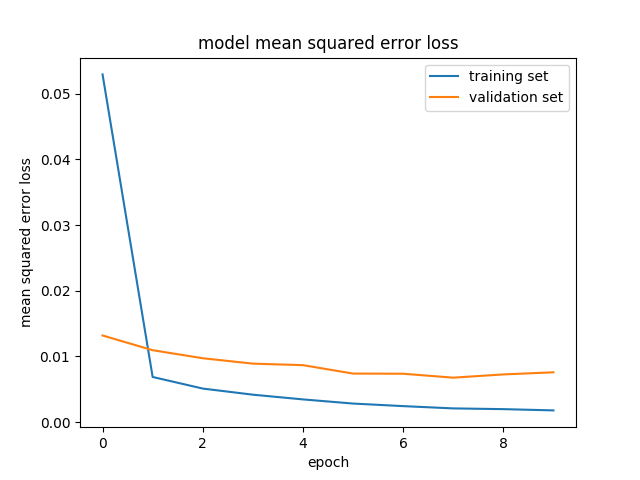
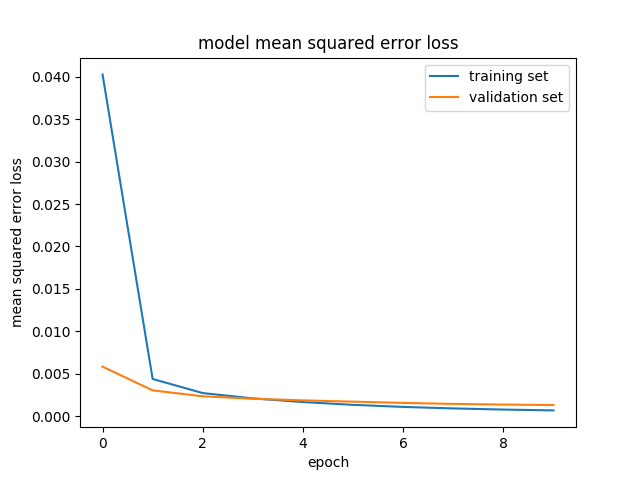
Bug fix for fit_generator

diff --git a/model.py b/model.py
@@ -3,13 +3,17 @@ import cv2
 import numpy as np
 import gc
 from sklearn.utils import shuffle
-from sklear.model_selection import train_test_split
+from sklearn.model_selection import train_test_split
+
+BATCH_SIZE = 32
 
 samples = []
 with open('./data/driving_log.csv') as csvfile:
   reader = csv.reader(csvfile)
   for line in reader:
-    line.append(1) #flag for augmentation
+    line.append(1)
+    samples.append(line)
+    line[-1] = -1
     samples.append(line)
 
 def generator(samples, batch_size=32):
@@ -23,9 +27,12 @@ def generator(samples, batch_size=32):
       angles = []
 
       for batch_sample in batch_samples:
-        name = './data/IMG/' + batch_sample[0].split('/')[-1]
+        name = './data/IMG/'+batch_sample[0].split('/')[-1]
         center_image = cv2.imread(name)
         center_angle = float(batch_sample[3])
+        if (batch_sample[-1] == -1):
+          center_image = np.fliplr(center_image)
+          center_angle = - center_angle
         images.append(center_image)
         angles.append(center_angle)
 
@@ -34,28 +41,20 @@ def generator(samples, batch_size=32):
       yield shuffle(X_train, y_train)
 
 train_samples, validation_samples = train_test_split(samples, test_size=0.2)
-train_generator = generator(train_samples)
-validation_generator = generator(validation_samples)
-
-#augmented_images = []
-#augmented_measurements = []
-#for image, measurement in zip(images, measurements):
-#  augmented_images.append(image)
-#  augmented_measurements.append(measurement)
-#  augmented_images.append(np.fliplr(image))
-#  augmented_measurements.append(-measurement)
+train_generator = generator(train_samples, batch_size = BATCH_SIZE)
+validation_generator = generator(validation_samples, batch_size = BATCH_SIZE)
 
 from keras.models import Sequential
 from keras.layers import Flatten, Dense, Lambda, Cropping2D
-from keras.layers.convolutional import Convolution2D
+from keras.layers.convolutional import Conv2D
 from keras.layers.pooling import MaxPooling2D
 
 model = Sequential()
 model.add(Lambda(lambda x: x/255.0 - 0.5, input_shape=(160, 320, 3)))
 model.add(Cropping2D(cropping=((75, 20), (0, 0))))
-model.add(Convolution2D(6, 5, 5, activation='relu'))
+model.add(Conv2D(6, 5, 5, activation='relu'))
 model.add(MaxPooling2D())
-model.add(Convolution2D(6, 5, 5, activation='relu'))
+model.add(Conv2D(6, 5, 5, activation='relu'))
 model.add(MaxPooling2D())
 model.add(Flatten())
 model.add(Dense(120))
@@ -63,19 +62,16 @@ model.add(Dense(84))
 model.add(Dense(1))
 
 model.compile(loss='mse', optimizer='adam')
-#history_object = model.fit(X_train, y_train, validation_split=0.2, shuffle=True, epochs=10, verbose=1)
 history_object = model.fit_generator(
         train_generator, 
-        len(train_samples), 
-        validation_data=validation_generator, 
-        validation_steps=len(validation_samples),
-        epochs=3)
+        steps_per_epoch = len(train_samples) // BATCH_SIZE + 1, 
+        validation_data = validation_generator, 
+        validation_steps = len(validation_samples) // BATCH_SIZE + 1,
+        epochs=10)
 
 model.save('model.h5')
 
 gc.collect()
-
-print(history_object.history.keys())
 
 import matplotlib as mpl
 mpl.use('Agg')
